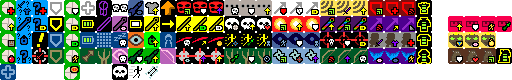
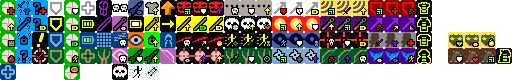
Revert "RAT KING NERFS, RAT KING NERFS"
This reverts commit 221263f7

Changed region(s): [[0.875, 0.2, 1.0, 0.4], [0.1562, 0.6, 0.1875, 0.8]]

diff --git a/core/src/main/java/com/zrp200/rkpd2/actors/hero/Hero.java b/core/src/main/java/com/zrp200/rkpd2/actors/hero/Hero.java
@@ -429,14 +429,6 @@ public class Hero extends Char {
 				accuracy *= 1.5f;
 			}
 		}
-
-		if (heroClass == HeroClass.RAT_KING){
-			float penalty = 0.25f;
-			if (hasTalent(Talent.TURNABOUT)){
-				penalty -= 0.05f * (pointsInTalent(Talent.TURNABOUT)-1);
-			}
-			accuracy *= (1 - penalty);
-		}
 		
 		if (wep != null) {
 			return (int)(attackSkill * accuracy * wep.accuracyFactor( this ));
@@ -465,14 +457,6 @@ public class Hero extends Char {
 
 		if (belongings.armor != null) {
 			evasion = belongings.armor.evasionFactor(this, evasion);
-		}
-
-		if (heroClass == HeroClass.RAT_KING){
-			float penalty = 0.35f;
-			if (hasTalent(Talent.REINFORCEMENT)){
-				penalty -= 0.05f * (pointsInTalent(Talent.REINFORCEMENT)-1);
-			}
-			evasion *= (1 - penalty);
 		}
 
 		return Math.round(evasion);
@@ -725,11 +709,9 @@ public class Hero extends Char {
 		}
 		
 		if(hasTalent(Talent.BARKSKIN,Talent.RK_WARDEN) && Dungeon.level.map[pos] == Terrain.FURROWED_GRASS){
-			if (subClass != HeroSubClass.KING || pointsInTalent(Talent.REINFORCEMENT) >= 4) {
-				Buff.affect(this, Barkskin.class).set(
-						Barkskin.getGrassDuration(this),
-						Dungeon.hero.hasTalent(Talent.BARKSKIN) ? 2 : 1);
-			}
+			Buff.affect(this, Barkskin.class).set(
+					Barkskin.getGrassDuration(this),
+					Dungeon.hero.hasTalent(Talent.BARKSKIN) ? 2 : 1);
 		}
 		
 		return actResult;
@@ -1203,14 +1185,6 @@ public class Hero extends Char {
 			break;
 		default:
 		}
-
-		if (heroClass == HeroClass.RAT_KING){
-			float penalty = 0.4f;
-			if (hasTalent(Talent.TURNABOUT)){
-				penalty -= 0.05f * pointsInTalent(Talent.TURNABOUT);
-			}
-			damage *= (1 - penalty);
-		}
 		
 		return damage;
 	}
@@ -1220,7 +1194,7 @@ public class Hero extends Char {
 		
 		if (damage > 0 && (subClass == HeroSubClass.BERSERKER || subClass == HeroSubClass.KING)){
 			Berserk berserk = Buff.affect(this, Berserk.class);
-			berserk.damage((int) (damage * (subClass == HeroSubClass.KING && pointsInTalent(Talent.REINFORCEMENT) < 3 ? 0.6f : 1f)));
+			berserk.damage(damage);
 		}
 		
 		if (belongings.armor != null) {
@@ -1258,13 +1232,6 @@ public class Hero extends Char {
 		CapeOfThorns.Thorns thorns = buff( CapeOfThorns.Thorns.class );
 		if (thorns != null) {
 			dmg = thorns.proc(dmg, (src instanceof Char ? (Char)src : null),  this);
-		}
-		if (heroClass == HeroClass.RAT_KING){
-			float penalty = 1f;
-			if (hasTalent(Talent.REINFORCEMENT)){
-				penalty -= 0.20f * (pointsInTalent(Talent.REINFORCEMENT));
-			}
-			dmg *= (1 + penalty);
 		}
 		/*// berserker gets rage from all sources. all hail viscosity!
 		// TODO change for 0.9.2?

diff --git a/core/src/main/java/com/zrp200/rkpd2/actors/buffs/SoulMark.java b/core/src/main/java/com/zrp200/rkpd2/actors/buffs/SoulMark.java
@@ -45,16 +45,12 @@ public class SoulMark extends FlavourBuff {
 	public static void process(Char defender, int level, int chargesUsed, boolean delay) {
 		//standard 1 - 0.92^x chance, plus 7%. Starts at 15%
 		if (defender != Dungeon.hero
-				&& (Dungeon.hero.subClass == HeroSubClass.WARLOCK || Dungeon.hero.subClass == HeroSubClass.KING)) {
-			double chance = Math.pow(0.92f, (level * chargesUsed) + 1) - 0.07f;
-			if (Dungeon.hero.pointsInTalent(Talent.TURNABOUT) < 3) chance *= 0.75f;
-			if (Random.Float() > chance) {
-				DelayedMark mark = affect(defender, DelayedMark.class);
-				mark.duration = DURATION + level;
-				if (!delay)
-					mark.activate(); // is active immediately, which means that if damage is taken directly afterwards it'll be processed.
-				// see Char#damage
-			}
+				&& (Dungeon.hero.subClass == HeroSubClass.WARLOCK || Dungeon.hero.subClass == HeroSubClass.KING)
+				&& Random.Float() > (Math.pow(0.92f, (level * chargesUsed) + 1) - 0.07f)) {
+			DelayedMark mark = affect(defender,DelayedMark.class);
+			mark.duration = DURATION+level;
+			if(!delay) mark.activate(); // is active immediately, which means that if damage is taken directly afterwards it'll be processed.
+			// see Char#damage
 		}
 	}
 	// basically lets me hold onto it for a hot second. detaching adds the mark, which means I can delay activation to when I want it to.

diff --git a/core/src/main/java/com/zrp200/rkpd2/actors/buffs/Momentum.java b/core/src/main/java/com/zrp200/rkpd2/actors/buffs/Momentum.java
@@ -28,7 +28,6 @@ import com.watabou.utils.GameMath;
 import com.watabou.utils.Random;
 import com.zrp200.rkpd2.Assets;
 import com.zrp200.rkpd2.Dungeon;
-import com.zrp200.rkpd2.actors.hero.HeroClass;
 import com.zrp200.rkpd2.actors.hero.Talent;
 import com.zrp200.rkpd2.effects.Speck;
 import com.zrp200.rkpd2.items.Item;
@@ -77,9 +76,6 @@ public class Momentum extends Buff implements ActionIndicator.Action {
 		}
 		movedLastTurn = false;
 
-		if (Dungeon.hero.heroClass == HeroClass.RAT_KING && freerunCooldown > 0 && Dungeon.hero.pointsInTalent(Talent.RATCELERATE) < 4){
-			spend(TICK*2);
-		}
 		spend(TICK);
 		return true;
 	}
@@ -98,14 +94,10 @@ public class Momentum extends Buff implements ActionIndicator.Action {
 	}
 
 	public float speedMultiplier(){
-		float baseSpeed = 2;
-		if (Dungeon.hero.heroClass == HeroClass.RAT_KING){
-			baseSpeed -= 0.75f - (Dungeon.hero.pointsInTalent(Talent.RATCELERATE)-2)*0.25f;
-		}
 		if (freerunning()){
-			return baseSpeed;
+			return 2;
 		} else if (target.invisible > 0 && Dungeon.hero.pointsInTalent(Talent.SPEEDY_STEALTH,Talent.RK_FREERUNNER) == 3){
-			return baseSpeed;
+			return 2;
 		} else {
 			return 1;
 		}

diff --git a/core/src/main/java/com/zrp200/rkpd2/items/wands/WandOfCorrosion.java b/core/src/main/java/com/zrp200/rkpd2/items/wands/WandOfCorrosion.java
@@ -34,8 +34,6 @@ import com.zrp200.rkpd2.actors.blobs.Blob;
 import com.zrp200.rkpd2.actors.blobs.CorrosiveGas;
 import com.zrp200.rkpd2.actors.buffs.Buff;
 import com.zrp200.rkpd2.actors.buffs.Ooze;
-import com.zrp200.rkpd2.actors.hero.HeroClass;
-import com.zrp200.rkpd2.actors.hero.Talent;
 import com.zrp200.rkpd2.effects.CellEmitter;
 import com.zrp200.rkpd2.effects.MagicMissile;
 import com.zrp200.rkpd2.effects.Speck;
@@ -59,11 +57,7 @@ public class WandOfCorrosion extends Wand {
 	public void onZap(Ballistica bolt) {
 		CorrosiveGas gas = Blob.seed(bolt.collisionPos, 50 + 10 * buffedLvl(), CorrosiveGas.class);
 		CellEmitter.get(bolt.collisionPos).burst(Speck.factory(Speck.CORROSION), 10 );
-		int dmg = 2 + buffedLvl();
-		if (Dungeon.hero.heroClass == HeroClass.RAT_KING){
-			dmg *= 0.66f + Dungeon.hero.pointsInTalent(Talent.EYE_THERAPY)*0.04f;
-		}
-		gas.setStrength(dmg);
+		gas.setStrength(2 + buffedLvl());
 		GameScene.add(gas);
 		Sample.INSTANCE.play(Assets.Sounds.GAS);
 

diff --git a/core/src/main/java/com/zrp200/rkpd2/items/wands/WandOfWarding.java b/core/src/main/java/com/zrp200/rkpd2/items/wands/WandOfWarding.java
@@ -13,8 +13,6 @@ import com.zrp200.rkpd2.actors.Char;
 import com.zrp200.rkpd2.actors.buffs.Buff;
 import com.zrp200.rkpd2.actors.buffs.Corruption;
 import com.zrp200.rkpd2.actors.hero.Hero;
-import com.zrp200.rkpd2.actors.hero.HeroClass;
-import com.zrp200.rkpd2.actors.hero.Talent;
 import com.zrp200.rkpd2.actors.mobs.npcs.NPC;
 import com.zrp200.rkpd2.effects.MagicMissile;
 import com.zrp200.rkpd2.items.weapon.Weapon;
@@ -304,9 +302,6 @@ public class WandOfWarding extends Wand {
 
 			//always hits
 			int dmg = Random.NormalIntRange( 2 + wandLevel, 8 + 4*wandLevel );
-			if (Dungeon.hero.heroClass == HeroClass.RAT_KING){
-				dmg *= 0.66f + Dungeon.hero.pointsInTalent(Talent.EYE_THERAPY)*0.04f;
-			}
 			MagesStaff staff = Dungeon.hero.belongings.getItem(MagesStaff.class);
 			Wand.wandProc(enemy, wandLevel, 1, true, dmg,
 					staff != null && staff.wandClass() == WandOfWarding.class && Dungeon.hero.belongings.getItem(WandOfWarding.class) == null); // damage was already done.

diff --git a/core/src/main/java/com/zrp200/rkpd2/items/wands/WandOfTransfusion.java b/core/src/main/java/com/zrp200/rkpd2/items/wands/WandOfTransfusion.java
@@ -33,8 +33,6 @@ import com.zrp200.rkpd2.actors.Char;
 import com.zrp200.rkpd2.actors.buffs.Barrier;
 import com.zrp200.rkpd2.actors.buffs.Buff;
 import com.zrp200.rkpd2.actors.buffs.Charm;
-import com.zrp200.rkpd2.actors.hero.HeroClass;
-import com.zrp200.rkpd2.actors.hero.Talent;
 import com.zrp200.rkpd2.actors.mobs.Mob;
 import com.zrp200.rkpd2.effects.Beam;
 import com.zrp200.rkpd2.effects.CellEmitter;
@@ -114,11 +112,7 @@ public class WandOfTransfusion extends Wand {
 				
 				//harms the undead
 				} else {
-					int dmg = Random.NormalIntRange(3 + buffedLvl() / 2, 6 + buffedLvl());
-					if (Dungeon.hero.heroClass == HeroClass.RAT_KING){
-						dmg *= 0.66f + Dungeon.hero.pointsInTalent(Talent.EYE_THERAPY)*0.04f;
-					}
-					ch.damage(dmg, this);
+					ch.damage(Random.NormalIntRange(3 + buffedLvl()/2, 6+buffedLvl()), this);
 					ch.sprite.emitter().start(ShadowParticle.UP, 0.05f, 10 + buffedLvl());
 					Sample.INSTANCE.play(Assets.Sounds.BURNING);
 				}

diff --git a/core/src/main/java/com/zrp200/rkpd2/items/armor/MageArmor.java b/core/src/main/java/com/zrp200/rkpd2/items/armor/MageArmor.java
@@ -33,6 +33,7 @@ import com.zrp200.rkpd2.actors.mobs.Mob;
 import com.zrp200.rkpd2.effects.particles.ElmoParticle;
 import com.zrp200.rkpd2.items.weapon.SpiritBow;
 import com.zrp200.rkpd2.items.weapon.melee.MagesStaff;
+import com.zrp200.rkpd2.mechanics.Ballistica;
 import com.zrp200.rkpd2.sprites.ItemSpriteSheet;
 
 public class MageArmor extends ClassArmor {
@@ -56,7 +57,7 @@ public class MageArmor extends ClassArmor {
 					if (staff == null && Dungeon.hero.belongings.weapon instanceof MagesStaff){
 						staff = (MagesStaff) Dungeon.hero.belongings.weapon;
 					}
-					if (staff != null) staff.wand().onHit(staff, Dungeon.hero, mob, staff.damageRoll(Dungeon.hero));
+					if (staff != null) staff.wand().onZap(new Ballistica(mob.pos, mob.pos, Ballistica.STOP_TARGET));
 					if (bow != null) bow.proc( Dungeon.hero, mob, bow.damageRoll(Dungeon.hero) );
 				}
 				Buff.prolong( mob, Roots.class, Roots.DURATION );

diff --git a/core/src/main/java/com/zrp200/rkpd2/actors/buffs/Combo.java b/core/src/main/java/com/zrp200/rkpd2/actors/buffs/Combo.java
@@ -33,7 +33,6 @@ import com.zrp200.rkpd2.Dungeon;
 import com.zrp200.rkpd2.actors.Actor;
 import com.zrp200.rkpd2.actors.Char;
 import com.zrp200.rkpd2.actors.hero.Hero;
-import com.zrp200.rkpd2.actors.hero.HeroClass;
 import com.zrp200.rkpd2.actors.hero.Talent;
 import com.zrp200.rkpd2.items.BrokenSeal;
 import com.zrp200.rkpd2.items.Item;
@@ -60,13 +59,7 @@ public class Combo extends Buff implements ActionIndicator.Action {
 	private float initialComboTime = baseComboTime();
 
 	private static float baseComboTime() {
-		float comboTime = 5f + (Dungeon.hero != null ? Dungeon.hero.pointsInTalent(Talent.SKILL) : 0);
-		if (Dungeon.hero != null && Dungeon.hero.heroClass == HeroClass.RAT_KING){
-			if (Dungeon.hero.pointsInTalent(Talent.TURNABOUT) < 3){
-				comboTime = 2f;
-			}
-		}
-		return comboTime;
+		return 5f+(Dungeon.hero != null ? Dungeon.hero.pointsInTalent(Talent.SKILL) : 0);
 	}
 
 	@Override

diff --git a/core/src/main/java/com/zrp200/rkpd2/items/artifacts/EtherealChains.java b/core/src/main/java/com/zrp200/rkpd2/items/artifacts/EtherealChains.java
@@ -33,7 +33,6 @@ import com.zrp200.rkpd2.actors.buffs.Buff;
 import com.zrp200.rkpd2.actors.buffs.Cripple;
 import com.zrp200.rkpd2.actors.buffs.LockedFloor;
 import com.zrp200.rkpd2.actors.hero.Hero;
-import com.zrp200.rkpd2.actors.hero.HeroClass;
 import com.zrp200.rkpd2.actors.hero.Talent;
 import com.zrp200.rkpd2.effects.Chains;
 import com.zrp200.rkpd2.effects.Pushing;
@@ -293,9 +292,6 @@ public class EtherealChains extends Artifact {
 				//gains a charge in 40 - 2*missingCharge turns
 				float chargeGain = (1 / (40f - (chargeTarget - charge)*2f));
 				chargeGain *= RingOfEnergy.artifactChargeMultiplier(target);
-				if (Dungeon.hero.heroClass == HeroClass.RAT_KING) {
-					chargeGain *= 0.5f + (Dungeon.hero.pointsInTalent(Talent.RATCELERATE)-1)*0.05f;
-				}
 				partialCharge += chargeGain;
 			} else if (cursed && Random.Int(100) == 0){
 				Buff.prolong( target, Cripple.class, 10f);

diff --git a/core/src/main/java/com/zrp200/rkpd2/actors/hero/HeroClass.java b/core/src/main/java/com/zrp200/rkpd2/actors/hero/HeroClass.java
@@ -30,7 +30,6 @@ import com.zrp200.rkpd2.actors.hero.abilities.huntress.SpiritHawk;
 import com.zrp200.rkpd2.actors.hero.abilities.mage.ElementalBlast;
 import com.zrp200.rkpd2.actors.hero.abilities.mage.WarpBeacon;
 import com.zrp200.rkpd2.actors.hero.abilities.mage.WildMagic;
-import com.zrp200.rkpd2.actors.hero.abilities.rat_king.Rebirth;
 import com.zrp200.rkpd2.actors.hero.abilities.rat_king.Wrath;
 import com.zrp200.rkpd2.actors.hero.abilities.rogue.DeathMark;
 import com.zrp200.rkpd2.actors.hero.abilities.rogue.ShadowClone;
@@ -263,7 +262,7 @@ public enum HeroClass {
 			case HUNTRESS:
 				return new ArmorAbility[]{new SpectralBlades(), new NaturesPower(), new SpiritHawk()};
 			case RAT_KING:
-				return new ArmorAbility[]{new Wrath(), new Ratmogrify(), new Rebirth()};
+				return new ArmorAbility[]{new Wrath(), new Ratmogrify()/*, new OmniAbility()*/};
 		}
 	}
 

diff --git a/core/src/main/java/com/zrp200/rkpd2/items/artifacts/TimekeepersHourglass.java b/core/src/main/java/com/zrp200/rkpd2/items/artifacts/TimekeepersHourglass.java
@@ -32,7 +32,6 @@ import com.zrp200.rkpd2.actors.buffs.Buff;
 import com.zrp200.rkpd2.actors.buffs.Hunger;
 import com.zrp200.rkpd2.actors.buffs.LockedFloor;
 import com.zrp200.rkpd2.actors.hero.Hero;
-import com.zrp200.rkpd2.actors.hero.HeroClass;
 import com.zrp200.rkpd2.actors.hero.Talent;
 import com.zrp200.rkpd2.actors.mobs.Mob;
 import com.zrp200.rkpd2.items.Item;
@@ -224,9 +223,6 @@ public class TimekeepersHourglass extends Artifact {
 				//90 turns to charge at full, 60 turns to charge at 0/10
 				float chargeGain = 1 / (90f - (chargeCap - charge)*3f);
 				chargeGain *= RingOfEnergy.artifactChargeMultiplier(target);
-				if (Dungeon.hero.heroClass == HeroClass.RAT_KING) {
-					chargeGain *= 0.5f + (Dungeon.hero.pointsInTalent(Talent.RATCELERATE)-1)*0.05f;
-				}
 				partialCharge += chargeGain;
 
 				if (partialCharge >= 1) {

diff --git a/core/src/main/java/com/zrp200/rkpd2/actors/buffs/Barrier.java b/core/src/main/java/com/zrp200/rkpd2/actors/buffs/Barrier.java
@@ -23,9 +23,6 @@ package com.zrp200.rkpd2.actors.buffs;
 
 import com.watabou.noosa.Image;
 import com.watabou.utils.Bundle;
-import com.zrp200.rkpd2.Dungeon;
-import com.zrp200.rkpd2.actors.hero.HeroClass;
-import com.zrp200.rkpd2.actors.hero.Talent;
 import com.zrp200.rkpd2.messages.Messages;
 import com.zrp200.rkpd2.sprites.CharSprite;
 import com.zrp200.rkpd2.ui.BuffIndicator;
@@ -54,8 +51,6 @@ public class Barrier extends ShieldBuff {
 	public boolean act() {
 
 		partialLostShield += Math.min(1f, shielding()/20f);
-		if (target == Dungeon.hero && Dungeon.hero.heroClass == HeroClass.RAT_KING && Dungeon.hero.pointsInTalent(Talent.REINFORCEMENT) < 4)
-			partialLostShield *= 2;
 
 		if (partialLostShield >= 1f) {
 			absorbDamage(1);
